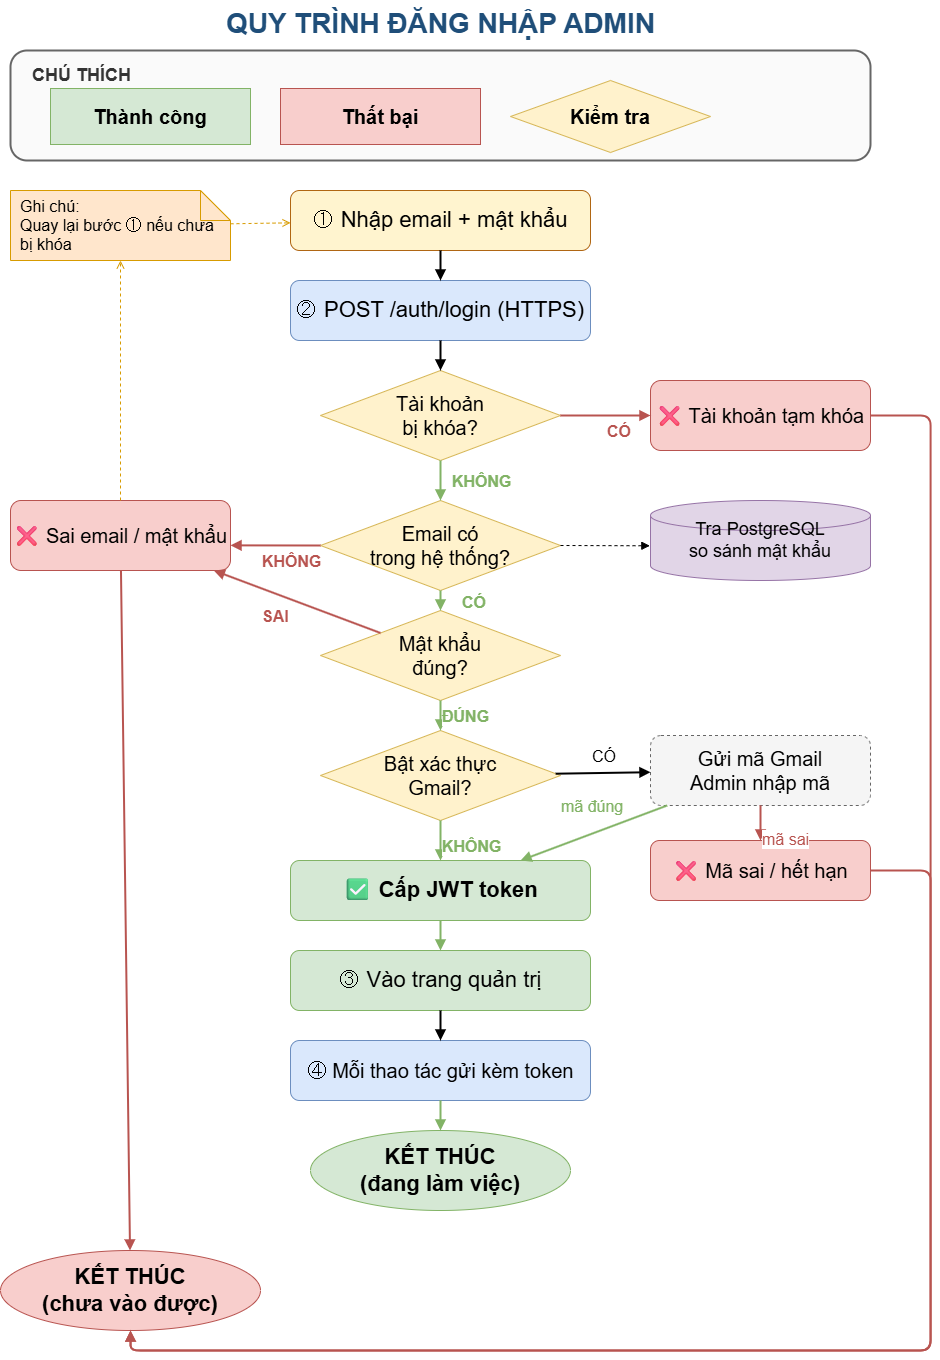
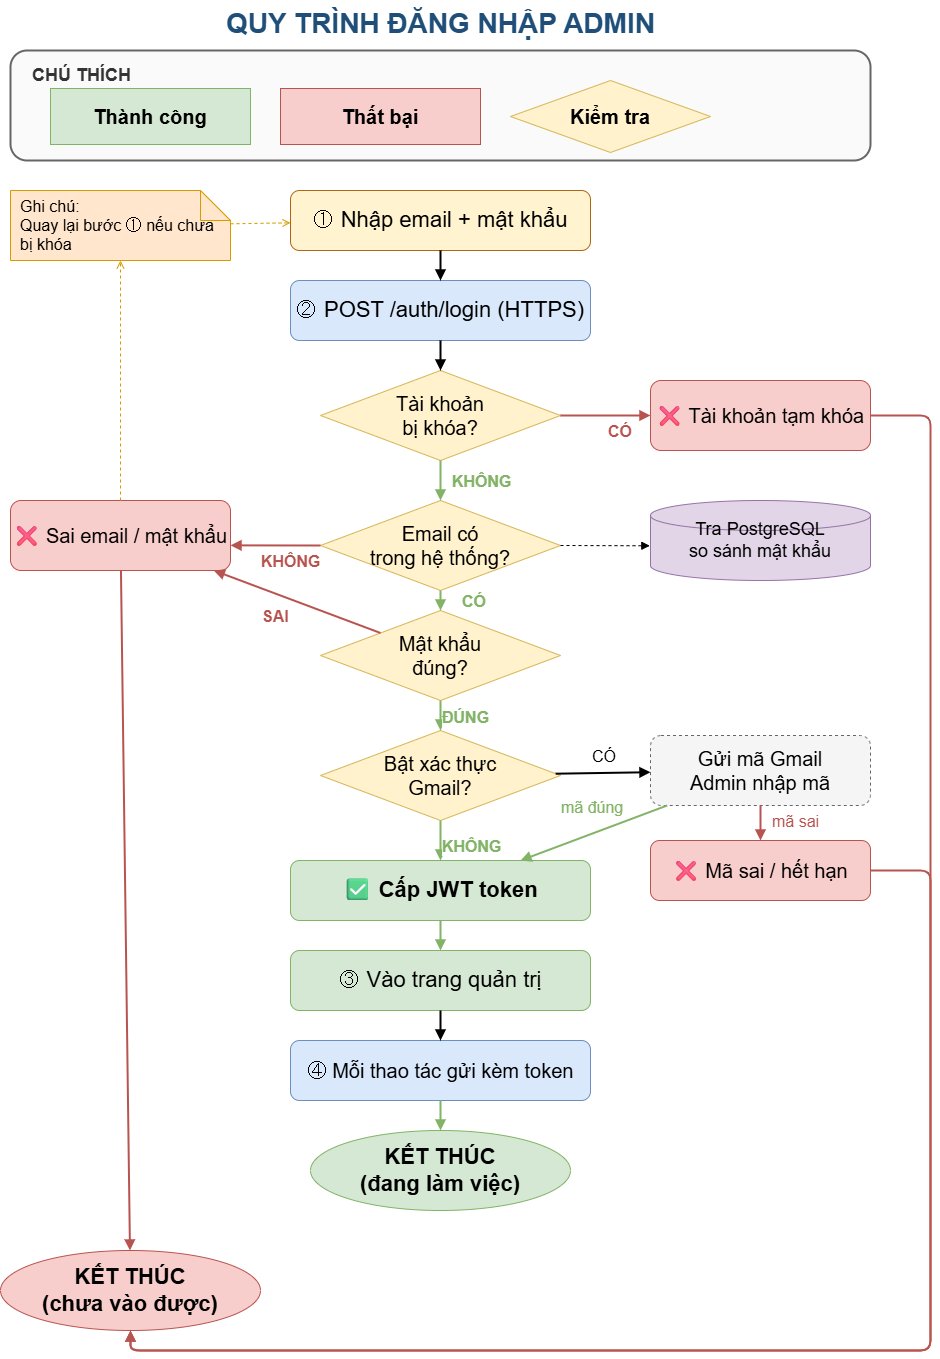
update

diff --git a/src/app/lien-he/page.tsx b/src/app/lien-he/page.tsx
@@ -109,20 +109,38 @@ export default function ContactPage() {
         </div>
       </section>
 
-      <section className="reveal-section mx-auto grid max-w-7xl gap-8 px-6 pb-14 lg:grid-cols-[0.95fr_1.05fr]">
-        <div>
+      <section className="reveal-section mx-auto grid max-w-7xl gap-8 px-6 pb-14 lg:grid-cols-[1.05fr_0.95fr]">
+        <div className="hover-card border border-black/10 bg-white p-6 md:p-8">
           <p className="mb-4 text-sm font-semibold uppercase tracking-[0.24em] text-[#B06613]">
-            Nhu cầu liên hệ
+            {contactFormCopy.eyebrow}
           </p>
           <h2 className="text-3xl font-semibold leading-tight">
-            Chọn nội dung cần trao đổi
+            {contactFormCopy.title}
           </h2>
           <p className="mt-4 text-sm leading-6 text-[#59646a]">
-            Thiên Đức tiếp nhận các nhóm nhu cầu sau và chuyển đến bộ phận phù
-            hợp.
+            {contactFormCopy.description}
           </p>
 
-          <div className="stagger-list mt-8 grid gap-4">
+          <div className="mt-8">
+            <ContactForm />
+          </div>
+        </div>
+
+        <div className="grid content-start gap-6">
+          <div>
+            <p className="mb-4 text-sm font-semibold uppercase tracking-[0.24em] text-[#B06613]">
+              Nhu cầu liên hệ
+            </p>
+            <h2 className="text-3xl font-semibold leading-tight">
+              Nội dung thường gặp
+            </h2>
+            <p className="mt-4 text-sm leading-6 text-[#59646a]">
+              Chọn đúng nhóm nội dung trong form giúp Thiên Đức phản hồi nhanh
+              hơn.
+            </p>
+          </div>
+
+          <div className="stagger-list grid gap-4">
             {inquiryTypes.map((item, index) => {
               const Icon = inquiryIcons[index];
 
@@ -150,52 +168,26 @@ export default function ContactPage() {
             })}
           </div>
 
-          <div className="mt-8 grid gap-4 sm:grid-cols-3">
-            {contactProcess.map((item) => (
-              <div
-                key={item.step}
-                className="border border-black/10 bg-white p-4"
-              >
-                <p className="text-sm font-semibold text-[#B06613]">
-                  {item.step}
-                </p>
-                <h3 className="mt-2 font-semibold">{item.title}</h3>
-                <p className="mt-2 text-sm leading-6 text-[#59646a]">
-                  {item.description}
-                </p>
-              </div>
-            ))}
-          </div>
-        </div>
-
-        <div className="hover-card border border-black/10 bg-white p-6 md:p-8">
-          <p className="mb-4 text-sm font-semibold uppercase tracking-[0.24em] text-[#B06613]">
-            {contactFormCopy.eyebrow}
-          </p>
-          <h2 className="text-3xl font-semibold leading-tight">
-            {contactFormCopy.title}
-          </h2>
-          <p className="mt-4 text-sm leading-6 text-[#59646a]">
-            {contactFormCopy.description}
-          </p>
-
-          <div className="mt-8">
-            <ContactForm />
-          </div>
-
-          <div className="mt-6 flex flex-wrap gap-3 border-t border-black/10 pt-6">
-            <a
-              href={phoneHref}
-              className="button-polish inline-flex h-11 items-center justify-center border border-black/15 px-5 text-sm font-semibold hover:border-[#B06613] hover:text-[#B06613]"
-            >
-              Gọi Thiên Đức
-            </a>
-            <a
-              href={emailHref}
-              className="button-polish inline-flex h-11 items-center justify-center border border-black/15 px-5 text-sm font-semibold hover:border-[#B06613] hover:text-[#B06613]"
-            >
-              Gửi email trực tiếp
-            </a>
+          <div>
+            <h3 className="mb-4 text-lg font-semibold text-[#191919]">
+              Sau khi gửi thông tin
+            </h3>
+            <div className="grid gap-4 sm:grid-cols-3 lg:grid-cols-1">
+              {contactProcess.map((item) => (
+                <div
+                  key={item.step}
+                  className="border border-black/10 bg-white p-4"
+                >
+                  <p className="text-sm font-semibold text-[#B06613]">
+                    {item.step}
+                  </p>
+                  <h4 className="mt-2 font-semibold">{item.title}</h4>
+                  <p className="mt-2 text-sm leading-6 text-[#59646a]">
+                    {item.description}
+                  </p>
+                </div>
+              ))}
+            </div>
           </div>
         </div>
       </section>

diff --git a/src/data/contact.ts b/src/data/contact.ts
@@ -8,14 +8,14 @@ export const contactHero = {
   eyebrow: "Liên hệ",
   title: "Kết nối với Thiên Đức",
   description:
-    "Thiên Đức tiếp nhận thông tin từ khách hàng, đối tác và các bên quan tâm đến dự án, hợp tác hoặc hoạt động doanh nghiệp.",
+    "Thông tin liên hệ chính thức dành cho khách hàng, đối tác và các bên quan tâm đến hoạt động của Thiên Đức.",
 };
 
 export const contactIntro = {
   eyebrow: "Thông tin liên hệ",
-  title: "Trao đổi trực tiếp với Thiên Đức",
+  title: "Chọn kênh liên hệ phù hợp",
   description:
-    "Vui lòng chọn kênh liên hệ phù hợp hoặc gửi yêu cầu qua form. Nội dung sẽ được chuyển đến bộ phận phụ trách tương ứng.",
+    "Bạn có thể gọi, gửi email hoặc xem vị trí văn phòng trước khi gửi thông tin tư vấn chi tiết.",
 };
 
 export const inquiryTypes: InquiryType[] = [
@@ -42,29 +42,29 @@ export const inquiryTypes: InquiryType[] = [
 export const contactProcess = [
   {
     step: "01",
-    title: "Gửi yêu cầu",
-    description: "Điền form hoặc liên hệ qua điện thoại, email.",
+    title: "Tiếp nhận",
+    description: "Ghi nhận thông tin từ form, điện thoại hoặc email.",
   },
   {
     step: "02",
-    title: "Tiếp nhận nội dung",
-    description: "Thiên Đức chuyển thông tin đến bộ phận phụ trách phù hợp.",
+    title: "Phân loại",
+    description: "Chuyển nội dung đến bộ phận phụ trách phù hợp.",
   },
   {
     step: "03",
     title: "Phản hồi",
     description:
-      "Đội ngũ liên hệ lại theo nội dung trao đổi và thông tin bạn cung cấp.",
+      "Liên hệ lại theo nội dung và thông tin bạn cung cấp.",
   },
 ];
 
 export const contactFormCopy = {
   eyebrow: "Gửi yêu cầu",
-  title: "Form liên hệ",
+  title: "Gửi thông tin tư vấn",
   description:
-    "Điền thông tin bên dưới. Khi gửi, hệ thống sẽ mở ứng dụng email để bạn xác nhận và gửi yêu cầu đến Thiên Đức.",
+    "Điền nội dung cần trao đổi, hệ thống sẽ mở email để bạn xác nhận trước khi gửi đến Thiên Đức.",
   note:
-    "Trang web hiện chưa có hệ thống lưu form trực tiếp. Yêu cầu được gửi qua email đến địa chỉ công ty.",
+    "Yêu cầu được gửi qua email đến địa chỉ công ty.",
   submitLabel: "Gửi yêu cầu qua email",
   fields: {
     name: "Họ và tên",